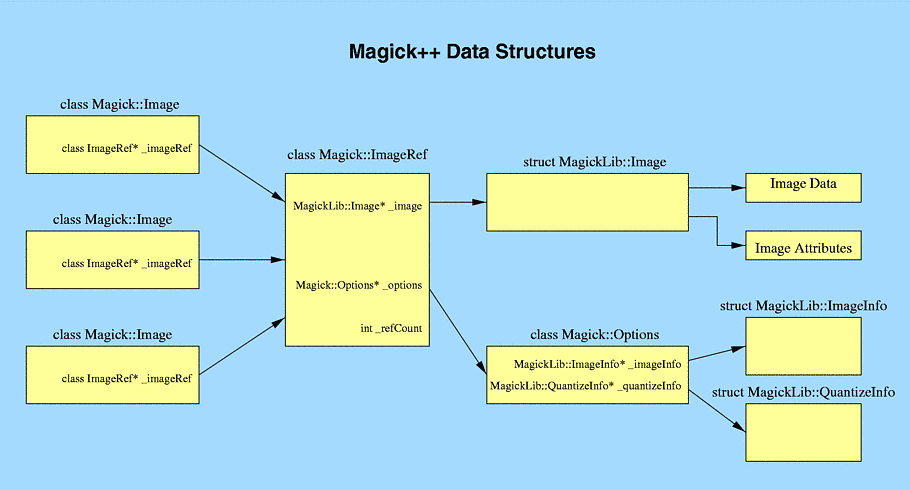
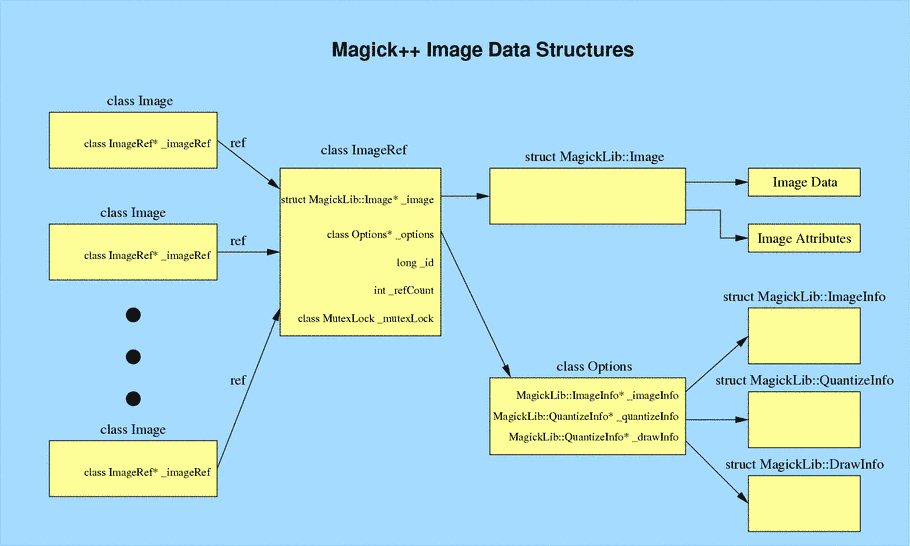
Clarify.

Changed region(s): [[0.0, 0.1531, 0.9846, 0.9796], [0.3692, 0.0612, 0.7077, 0.1224]]

diff --git a/www/Magick++/Image.html b/www/Magick++/Image.html
@@ -44,7 +44,7 @@ Various image manipulation operations may be applied to the image. Attributes
 may be set on the image to influence the operation of the manipulation
 operations. The <a href="Pixels.html">Pixels</a> class provides low-level
 access to image pixels. As a convenience, including
-<tt>&lt;Magick++.h></tt>
+<tt><font color="#663366">&lt;Magick++.h></font></tt>
 is sufficient in order to use the complete Magick++ API. The Magick++ API
 is enclosed within the <i>Magick</i> namespace so you must either add the
 prefix "<tt>Magick::</tt>" to each class/enumeration name or add the statement
@@ -70,10 +70,17 @@ handling is optional but strongly recommended):
 <br><tt><font color="#000066">using namespace Magick;</font></tt>
 <br><tt><font color="#000066">int main(int argc,char **argv)</font></tt>
 <br><tt><font color="#000066">{</font></tt>
-<br><tt><font color="#000066">&nbsp; try {</font></tt>
-<br><tt><font color="#000066">&nbsp;&nbsp;&nbsp; // Create an image object
-and read an image</font></tt>
-<br><tt><font color="#000066">&nbsp;&nbsp;&nbsp; Image image( "girl.gif"
+<br><tt><font color="#000066">&nbsp; // Construct the image object. Seperating
+image construction from the</font></tt>
+<br><tt><font color="#000066">&nbsp; // the read operation ensures that
+a failure to read the image file</font></tt>
+<br><tt><font color="#000066">&nbsp; // doesn't render the image object
+useless.</font></tt>
+<br><tt><font color="#000066">&nbsp; Image image;</font></tt><tt><font color="#000066"></font></tt>
+<p><tt><font color="#000066">&nbsp; try {</font></tt>
+<br><tt><font color="#000066">&nbsp;&nbsp;&nbsp; // Read a file into image
+object</font></tt>
+<br><tt><font color="#000066">&nbsp;&nbsp;&nbsp; image.read( "girl.gif"
 );</font></tt>
 <p><tt><font color="#000066">&nbsp;&nbsp;&nbsp; // Crop the image to specified
 size</font></tt>
@@ -365,6 +372,12 @@ manipulation operations provided by the ImageMagick library. If you must
 process a multi-image file (such as an animation), the <a href="STL.html">STL
 interface</a>, which provides a multi-image abstraction on top of <i>Image</i>,
 must be used.
+<p>Image manipulation methods are very easy to use.&nbsp; For example:
+<blockquote><font color="#663366">Image image;</font>
+<br><font color="#663366">image.read("myImage.tiff");</font>
+<br><font color="#663366">image.addNoise(GaussianNoise);</font>
+<br><font color="#663366">image.write("myImage.tiff");</font></blockquote>
+adds gaussian noise to the image file "myImage.tiff".
 <p>The operations supported by Image are shown in the following table:
 <br>&nbsp;
 <table BORDER NOSAVE >
@@ -1556,8 +1569,18 @@ equal the area specified by the width_ and height_ values and type_ parameters.<
 Image attributes are set and obtained via methods in Image. Except for
 methods which accept pointer arguments (e.g. c<tt>hromaBluePrimary)</tt>
 all methods return attributes by value.
-<p>The supported image attributes and the method arguments required to
-obtain them are shown in the following table:
+<p>Image attributes are easily used. For example, to set the resolution
+of the TIFF file "file.tiff" to 150 dots-per-inch (DPI) in both the horizontal
+and vertical directions, you can use the following example code:
+<blockquote><font color="#663366">string filename("file.tiff");</font>
+<br><font color="#663366">Image image;</font>
+<br><font color="#663366">image.read(filename);</font>
+<br><font color="#663366">image.resolutionUnits(PixelsPerInchResolution);</font>
+<br><font color="#663366">image.density(Geometry(150,150));&nbsp;&nbsp;
+// could also use image.density("150x150")</font>
+<br><font color="#663366">image.write(filename)</font></blockquote>
+The supported image attributes and the method arguments required to obtain
+them are shown in the following table:
 <br>&nbsp;
 <table BORDER >
 <caption>Image Image Attributes</caption>
@@ -2668,8 +2691,7 @@ units_</font></td>
 <td BGCOLOR="#666666"><font size=-1>&nbsp;</font></td>
 
 <td><font size=-1>Image MD5 signature. Set force_ to 'true' to force re-computation
-of
-signature.</font></td>
+of signature.</font></td>
 </tr>
 
 <tr>

diff --git a/www/Magick++/Documentation.html b/www/Magick++/Documentation.html
@@ -20,7 +20,7 @@ available from the C API but in a simple object-oriented and well-documented
 framework.
 <p>Magick++ is intended to support commercial-grade application development.
 In order to avoid possible conflicts with the user's application, all symbols
-contained in Magick++ (included by the header <tt>&lt;Magick++.h></tt>)
+contained in Magick++ (included by the header <tt><font color="#663366">&lt;Magick++.h></font></tt>)
 are scoped to the namespace <i>Magick</i>. Symbols from the ImageMagick
 C library are imported under the <i>MagickLib</i> namespace to avoid possible
 conflicts and ImageMagick macros are only included within the Magick++
@@ -40,6 +40,8 @@ the Image class manages heap memory internally, images are best allocated
 via C++ automatic (stack-based) memory allocation. This support allows
 most programs using Magick++ to be written without using any pointers,
 simplifying the implementation and avoiding the risks of using pointers.
+When a program uses automatic memory allocation to allocate Magick++ images,
+that aspect of the program becomes naturally exception-safe and thread-safe.
 <p>The image class uses a number of supportive classes in order to specify
 arguments. Colors are specified via the <a href="Color.html">Color</a>
 class. Colors specified in X11-style string form are implicitly converted
@@ -131,7 +133,7 @@ image frames.</td>
 <tr>
 <td><a href="TypeMetric.html">TypeMetric</a></td>
 
-<td>Container for font type metrics (use with <a href="Image.html#fontTypeMetrics">Image::fontTypeMetrics</a>).&nbsp;&nbsp;</td>
+<td>Container for font type metrics (use with <a href="Image.html#fontTypeMetrics">Image::fontTypeMetrics</a>).&nbsp;</td>
 </tr>
 </table>
 
